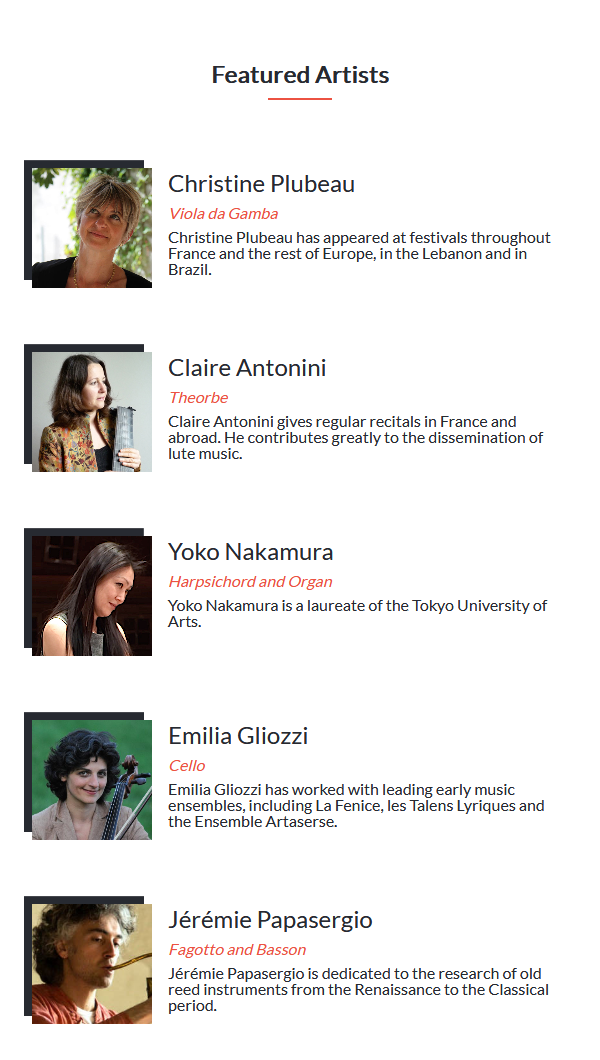
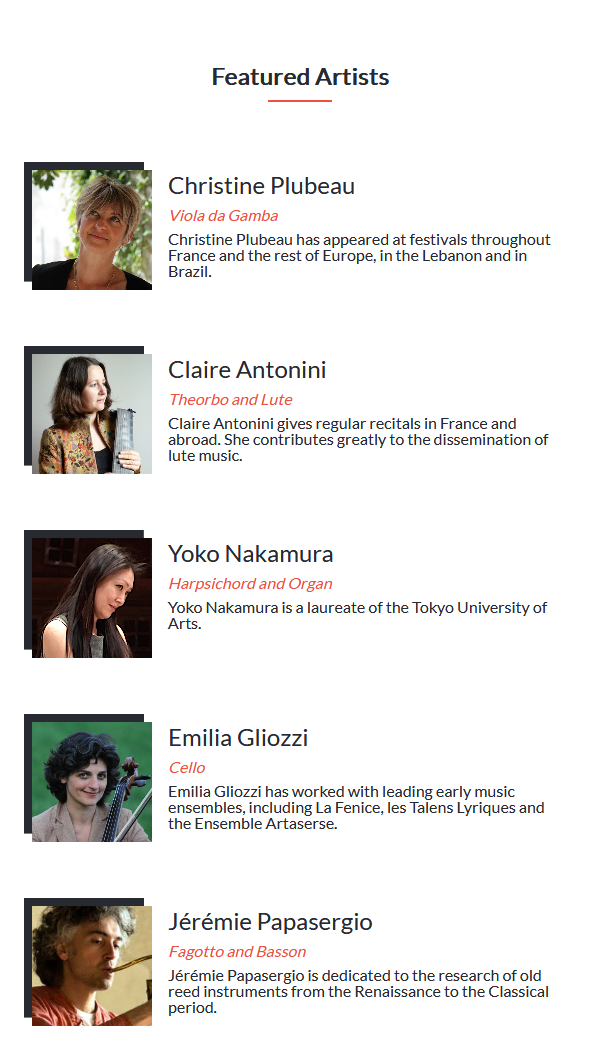
Fix typos in the 'Featured Artists' section, update README and screenshots.

diff --git a/index.html b/index.html
@@ -103,13 +103,12 @@
                 <article class="program-tile d-flex flex-column flex-align-center flex-1 m-2 p-16">
                     <img class="my-8" src="images/icon-piano.png" alt="piano">
                     <h3 class="text-color-brand bold my-8">Piano</h3>
-                    <p class="text-color-white">There's no piano here, but there are other pleasant sounding instruments.</p>
+                    <p class="text-color-white">There's no piano here, but there are other nice instruments.</p>
                 </article>
                 <article class="program-tile d-flex flex-column flex-align-center flex-1 m-2 p-16">
                     <img class="my-8" src="images/icon-pipe-organ.png" alt="pipe organ">
                     <h3 class="text-color-brand bold my-8">Pipe Organ</h3>
-                    <p class="text-color-white">This instrument is very cool. They play it when it's available in the
-                        theater.</p>
+                    <p class="text-color-white">They play it when it's available in the theater.</p>
                 </article>
             </div>
             <a class="d-block text-center bold underline text-color-white mt-32" href="about.html">SEE MORE</a>
@@ -134,8 +133,8 @@
                     <img class="artist-image" src="images/artist-claire-antonini.jpg" alt="Claire Antonini">
                     <div class="artist-text-wrapper ml-16">
                         <h3 class="text-size-h3">Claire Antonini</h3>
-                        <p class="text-color-brand italic my-8">Theorbe</p>
-                        <p>Claire Antonini gives regular recitals in France and abroad. He contributes greatly to the
+                        <p class="text-color-brand italic my-8">Theorbo and Lute</p>
+                        <p>Claire Antonini gives regular recitals in France and abroad. She contributes greatly to the
                             dissemination of lute music.</p>
                     </div>
                 </article>

diff --git a/README.md b/README.md
@@ -44,7 +44,7 @@ Give a ⭐ if you like this project!
 - [Cindy Shin](https://www.behance.net/adagio07) for the concept design.
 - [Philippe Jaroussky](http://www.philippejaroussky.fr/): The artist who served as inspiration for this project's theme.
 
-> I've made use of resources from:
+### I've made use of resources from:
 
 - [Zeta Fonts](http://www.zetafonts.com/cocogoose) (typography)
 - [Lato Fonts](https://www.latofonts.com/) (typography)
